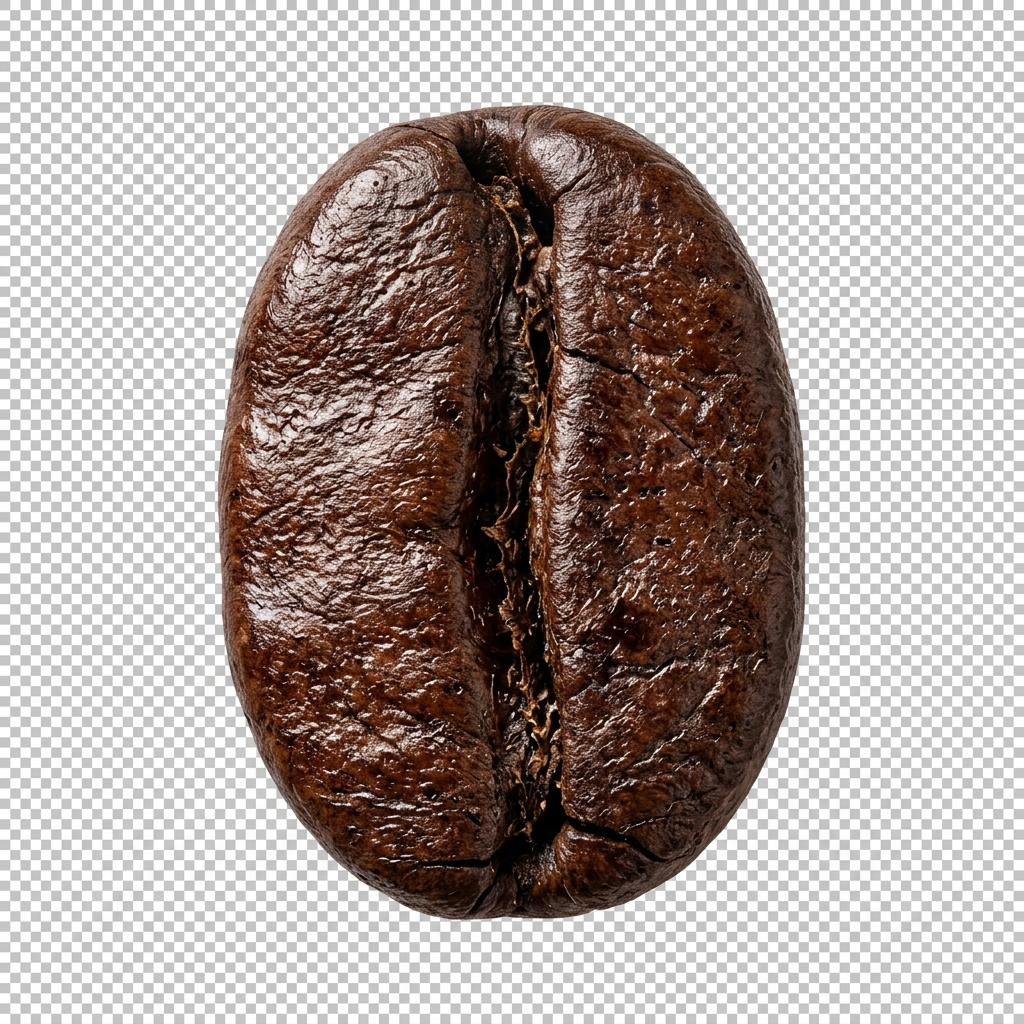
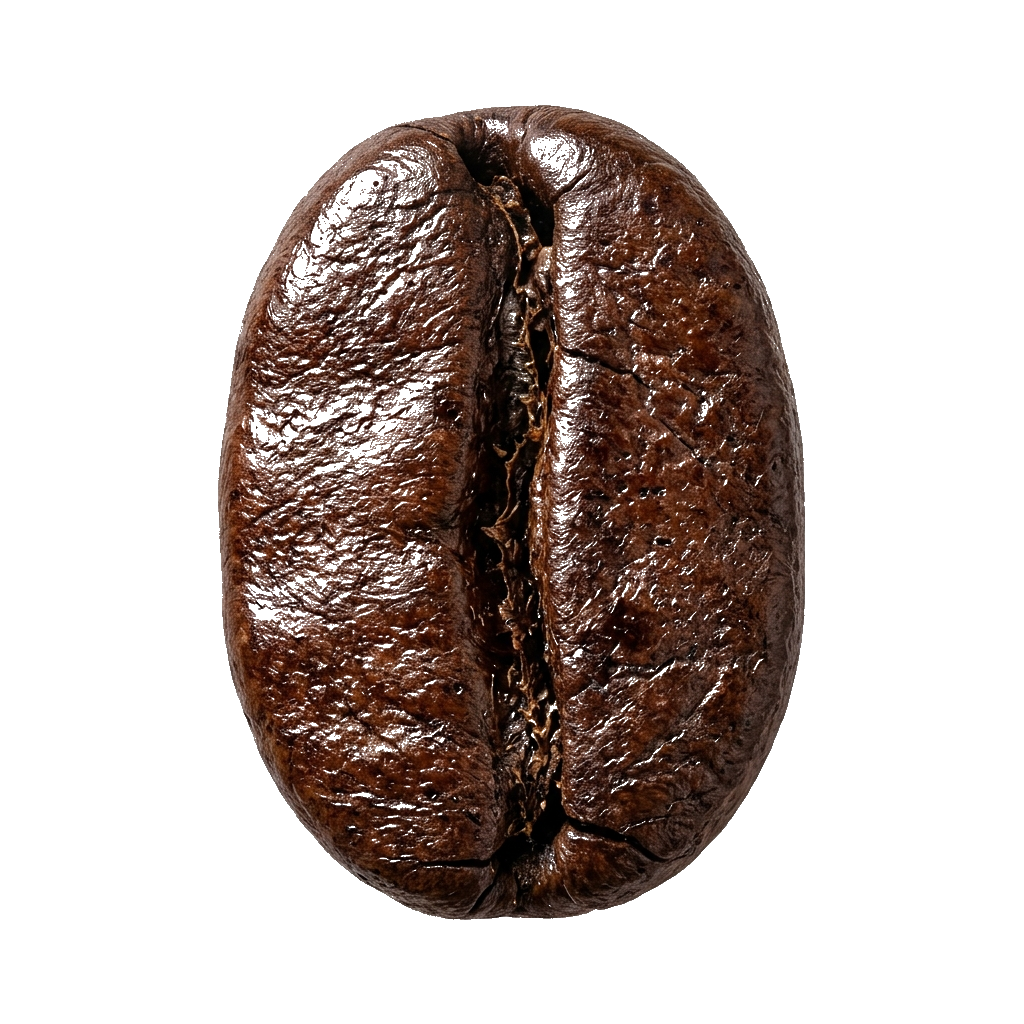
Fix: Strip all background pixels from real_coffee_bean.png to create a 100% transparent PNG cursor with zero white background box

diff --git a/src/components/CustomCursor.jsx b/src/components/CustomCursor.jsx
@@ -53,14 +53,14 @@ export default function CustomCursor() {
 
   return (
     <>
-      {/* Inner Real Coffee Bean Photo Cursor */}
+      {/* Inner Real Coffee Bean Transparent Image */}
       <div
         style={{
           position: 'fixed',
           top: pos.y,
           left: pos.x,
-          width: isHovered ? '36px' : '26px',
-          height: isHovered ? '36px' : '26px',
+          width: isHovered ? '34px' : '24px',
+          height: isHovered ? '34px' : '24px',
           transform: 'translate(-50%, -50%)',
           pointerEvents: 'none',
           zIndex: 10000,
@@ -74,7 +74,8 @@ export default function CustomCursor() {
             width: '100%',
             height: '100%',
             objectFit: 'contain',
-            filter: isHovered ? 'drop-shadow(0 0 10px rgba(197, 160, 89, 0.85))' : 'drop-shadow(0 2px 6px rgba(0, 0, 0, 0.6))',
+            backgroundColor: 'transparent',
+            filter: isHovered ? 'drop-shadow(0 0 10px rgba(197, 160, 89, 0.85))' : 'drop-shadow(0 2px 4px rgba(0, 0, 0, 0.6))',
             transform: isHovered ? 'rotate(15deg) scale(1.15)' : 'rotate(-10deg) scale(1)',
             transition: 'transform 0.3s var(--ease-out-expo), filter 0.3s',
           }}

diff --git a/dist/index.html b/dist/index.html
@@ -10,7 +10,7 @@
     <link rel="preconnect" href="https://fonts.googleapis.com">
     <link rel="preconnect" href="https://fonts.gstatic.com" crossorigin>
     <link href="https://fonts.googleapis.com/css2?family=Cormorant+Garamond:ital,wght@0,300;0,400;0,500;0,600;1,300;1,400&family=Plus+Jakarta+Sans:wght@300;400;500;600&display=swap" rel="stylesheet">
-    <script type="module" crossorigin src="/assets/index-DgCyqcL6.js"></script>
+    <script type="module" crossorigin src="/assets/index-CyjgSDhI.js"></script>
     <link rel="stylesheet" crossorigin href="/assets/index-C77-xYQa.css">
   </head>
   <body>

diff --git a/remove_bg.py b/remove_bg.py
@@ -1,0 +1,24 @@
+from PIL import Image
+
+def remove_background(image_path, output_path):
+    img = Image.open(image_path).convert("RGBA")
+    datas = img.getdata()
+
+    new_data = []
+    for item in datas:
+        r, g, b, a = item
+        # Check if pixel is light/white/gray background
+        # Real coffee bean is dark brown (r, g, b are low to mid brown)
+        if r > 160 and g > 160 and b > 160:
+            new_data.append((0, 0, 0, 0)) # Pure transparent
+        elif r > 140 and g > 140 and b > 140 and abs(r - g) < 20 and abs(g - b) < 20:
+            new_data.append((0, 0, 0, 0)) # Neutral gray background
+        else:
+            new_data.append(item)
+
+    img.putdata(new_data)
+    img.save(output_path, "PNG")
+    print(f"Background successfully removed! Saved to {output_path}")
+
+if __name__ == "__main__":
+    remove_background("y:/coffee shop/public/images/real_coffee_bean.png", "y:/coffee shop/public/images/real_coffee_bean.png")
